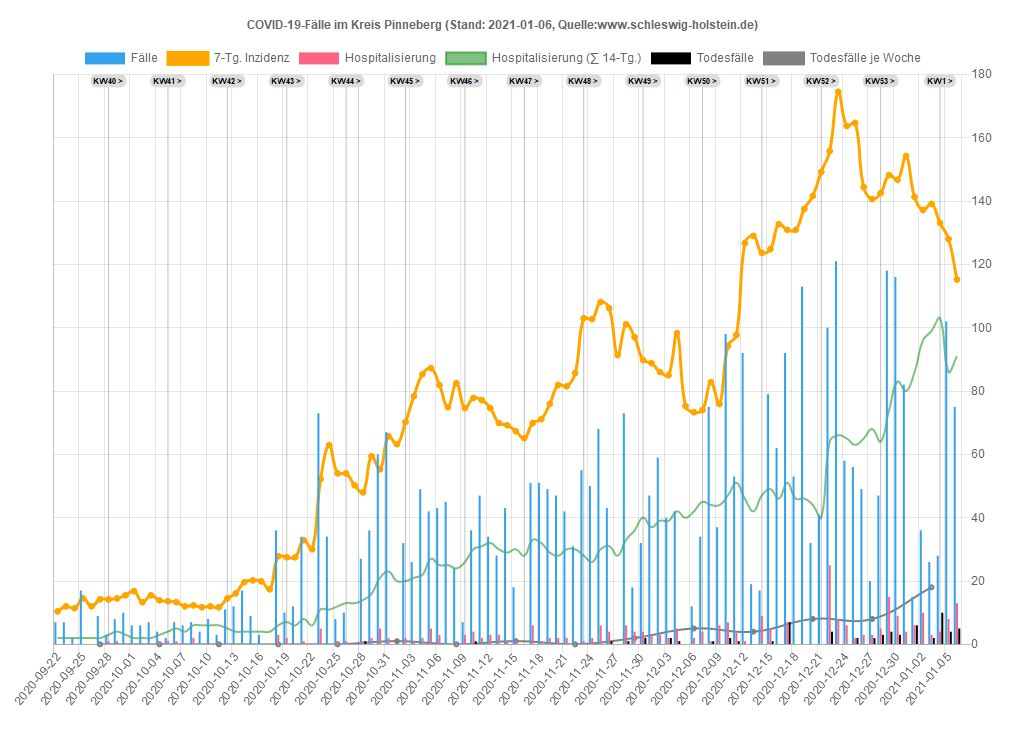
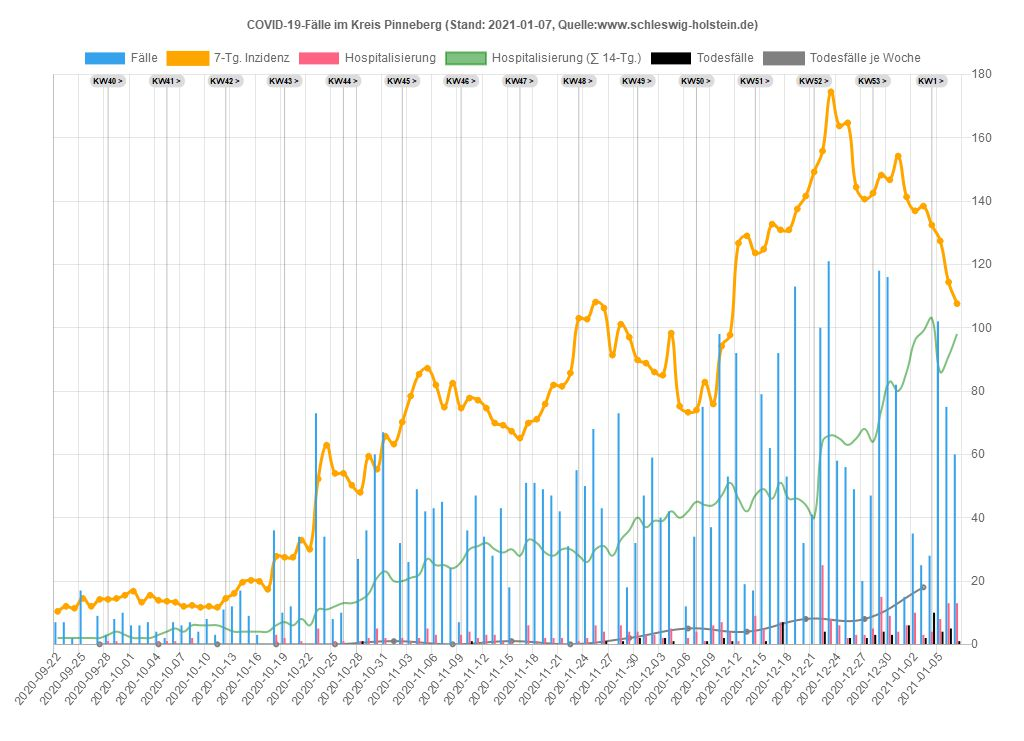
07.01.2021 22:14:42,40

Changed region(s): [[0.0625, 0.0931, 0.9375, 0.9622]]

diff --git a/sh/Data_SH.js b/sh/Data_SH.js
@@ -1,20 +1,20 @@
 var chdata={
-labels: ["2020-09-22","2020-09-23","2020-09-24","2020-09-25","2020-09-26","2020-09-27","2020-09-28","2020-09-29","2020-09-30","2020-10-01","2020-10-02","2020-10-03","2020-10-04","2020-10-05","2020-10-06","2020-10-07","2020-10-08","2020-10-09","2020-10-10","2020-10-11","2020-10-12","2020-10-13","2020-10-14","2020-10-15","2020-10-16","2020-10-17","2020-10-18","2020-10-19","2020-10-20","2020-10-21","2020-10-22","2020-10-23","2020-10-24","2020-10-25","2020-10-26","2020-10-27","2020-10-28","2020-10-29","2020-10-30","2020-10-31","2020-11-01","2020-11-02","2020-11-03","2020-11-04","2020-11-05","2020-11-06","2020-11-07","2020-11-08","2020-11-09","2020-11-10","2020-11-11","2020-11-12","2020-11-13","2020-11-14","2020-11-15","2020-11-16","2020-11-17","2020-11-18","2020-11-19","2020-11-20","2020-11-21","2020-11-22","2020-11-23","2020-11-24","2020-11-25","2020-11-26","2020-11-27","2020-11-28","2020-11-29","2020-11-30","2020-12-01","2020-12-02","2020-12-03","2020-12-04","2020-12-05","2020-12-06","2020-12-07","2020-12-08","2020-12-09","2020-12-10","2020-12-11","2020-12-12","2020-12-13","2020-12-14","2020-12-15","2020-12-16","2020-12-17","2020-12-18","2020-12-19","2020-12-20","2020-12-21","2020-12-22","2020-12-23","2020-12-24","2020-12-25","2020-12-26","2020-12-27","2020-12-28","2020-12-29","2020-12-30","2020-12-31","2021-01-01","2021-01-02","2021-01-03","2021-01-04","2021-01-05","2021-01-06"],
+labels: ["2020-09-22","2020-09-23","2020-09-24","2020-09-25","2020-09-26","2020-09-27","2020-09-28","2020-09-29","2020-09-30","2020-10-01","2020-10-02","2020-10-03","2020-10-04","2020-10-05","2020-10-06","2020-10-07","2020-10-08","2020-10-09","2020-10-10","2020-10-11","2020-10-12","2020-10-13","2020-10-14","2020-10-15","2020-10-16","2020-10-17","2020-10-18","2020-10-19","2020-10-20","2020-10-21","2020-10-22","2020-10-23","2020-10-24","2020-10-25","2020-10-26","2020-10-27","2020-10-28","2020-10-29","2020-10-30","2020-10-31","2020-11-01","2020-11-02","2020-11-03","2020-11-04","2020-11-05","2020-11-06","2020-11-07","2020-11-08","2020-11-09","2020-11-10","2020-11-11","2020-11-12","2020-11-13","2020-11-14","2020-11-15","2020-11-16","2020-11-17","2020-11-18","2020-11-19","2020-11-20","2020-11-21","2020-11-22","2020-11-23","2020-11-24","2020-11-25","2020-11-26","2020-11-27","2020-11-28","2020-11-29","2020-11-30","2020-12-01","2020-12-02","2020-12-03","2020-12-04","2020-12-05","2020-12-06","2020-12-07","2020-12-08","2020-12-09","2020-12-10","2020-12-11","2020-12-12","2020-12-13","2020-12-14","2020-12-15","2020-12-16","2020-12-17","2020-12-18","2020-12-19","2020-12-20","2020-12-21","2020-12-22","2020-12-23","2020-12-24","2020-12-25","2020-12-26","2020-12-27","2020-12-28","2020-12-29","2020-12-30","2020-12-31","2021-01-01","2021-01-02","2021-01-03","2021-01-04","2021-01-05","2021-01-06","2021-01-07"],
 datasets: [
 {label: 'Fälle',
 type: 'bar',
 backgroundColor: window.chartColors.blue,
-data: [38,42,63,53,15,15,38,48,49,27,50,16,24,39,54,45,79,54,26,25,65,65,65,55,90,26,88,163,111,160,136,236,142,115,164,164,280,215,313,265,161,142,236,262,220,274,233,177,215,252,247,192,296,158,161,100,294,208,264,250,153,121,145,251,256,225,180,219,71,81,244,240,245,318,234,122,179,356,340,443,429,444,144,210,506,522,489,553,440,193,280,589,673,366,177,201,188,268,576,466,357,135,266,206,264,541,527]},
+data: [38,42,63,53,15,15,38,48,49,27,50,16,24,39,54,45,79,54,26,25,65,65,65,55,90,26,88,163,111,160,136,236,142,115,164,164,280,215,313,265,161,142,236,262,220,274,233,177,215,252,247,192,296,158,161,100,294,208,264,250,153,121,145,251,256,225,180,219,71,81,244,240,245,318,234,122,179,356,340,443,429,444,144,210,506,522,489,553,440,193,280,589,673,366,177,201,188,268,576,466,357,135,263,203,264,541,534,476]},
 {label: '7-Tg. Inzidenz',
 type: 'line',
 fill: false,
 pointBackgroundColor: 'orange',
 borderColor: 'orange',
-data: [7.2,7.9,8.7,9.4,9.3,9.2,9.1,9.4,9.7,8.4,8.3,8.4,8.7,8.7,8.9,8.8,10.6,10.7,11.1,11.1,12.0,12.4,13.1,12.2,13.5,13.5,15.6,19.0,20.6,23.9,26.7,31.7,35.7,36.6,36.6,38.5,42.6,45.3,48.0,52.2,53.8,53.0,55.5,54.9,55.1,53.7,52.6,53.2,55.7,56.2,55.7,54.8,55.5,52.9,52.4,48.4,49.9,48.5,51.0,49.4,49.2,47.9,49.4,47.9,49.6,48.2,45.8,48.1,46.4,44.2,43.9,43.4,44.1,48.8,49.3,51.1,54.5,58.3,61.8,68.6,72.4,79.7,80.4,81.5,86.6,92.9,94.5,98.8,98.6,100.3,102.7,105.6,110.8,106.6,93.6,85.4,85.2,84.8,84.3,77.2,76.9,75.5,77.7,78.3,78.2,77.0,79.1]},
+data: [7.2,7.9,8.7,9.4,9.3,9.2,9.1,9.4,9.7,8.4,8.3,8.4,8.7,8.7,8.9,8.8,10.6,10.7,11.1,11.1,12.0,12.4,13.1,12.2,13.5,13.5,15.6,19.0,20.6,23.9,26.7,31.7,35.7,36.6,36.6,38.5,42.6,45.3,48.0,52.2,53.8,53.0,55.5,54.9,55.1,53.7,52.6,53.2,55.7,56.2,55.7,54.8,55.5,52.9,52.4,48.4,49.9,48.5,51.0,49.4,49.2,47.9,49.4,47.9,49.6,48.2,45.8,48.1,46.4,44.2,43.9,43.4,44.1,48.8,49.3,51.1,54.5,58.3,61.8,68.6,72.4,79.7,80.4,81.5,86.6,92.9,94.5,98.8,98.6,100.3,102.7,105.6,110.8,106.6,93.6,85.4,85.2,84.8,84.3,77.2,76.9,75.5,77.6,78.1,78.0,76.8,79.1,83.2]},
 {label: 'Hospitalisierung',
 type: 'bar',
 backgroundColor: window.chartColors.red,
-data: [1,2,7,1,0,0,2,1,3,1,1,0,4,3,1,1,4,2,0,3,5,1,1,2,4,0,9,10,8,9,12,7,5,6,7,7,11,10,11,6,3,9,19,20,15,15,5,7,13,15,21,13,17,8,17,13,23,10,15,9,7,7,13,16,26,19,12,14,15,10,12,8,10,14,3,5,24,13,26,20,14,12,6,26,27,16,20,18,8,13,13,43,35,23,17,21,26,25,46,33,33,20,34,32,51,58,35]},
+data: [1,2,7,1,0,0,2,1,3,1,1,0,4,3,1,1,4,2,0,3,5,1,1,2,4,0,9,10,8,9,12,7,5,6,7,7,11,10,11,6,3,9,19,20,15,15,5,7,13,15,21,13,17,8,17,13,23,10,15,9,7,7,13,16,26,19,12,14,15,10,12,8,10,14,3,5,24,13,26,20,14,12,6,26,27,16,20,18,8,13,13,43,35,23,17,21,26,25,46,33,33,20,34,32,51,58,35,46]},
 {label: 'Hosp. (∑ 14-Tg.)',
 type: 'line',
 fill: false,
@@ -22,17 +22,17 @@ hidden: true,
 borderColor: 'rgba(0,255,0,0.5)',
 borderWidth: 1.5,
 pointRadius: 0,
-data: [12,12,20,22,22,22,22,23,23,21,22,21,24,26,26,25,22,23,23,26,29,29,27,28,31,31,36,43,50,58,66,71,76,79,81,87,97,105,112,118,112,111,122,133,136,144,144,145,151,159,169,172,178,180,194,198,202,192,192,186,188,188,188,189,194,200,195,201,199,196,185,183,178,183,179,177,188,185,185,186,188,186,177,193,208,216,226,230,235,243,232,262,271,274,277,286,306,305,324,341,354,356,382,401,439,454,454]},
+data: [12,12,20,22,22,22,22,23,23,21,22,21,24,26,26,25,22,23,23,26,29,29,27,28,31,31,36,43,50,58,66,71,76,79,81,87,97,105,112,118,112,111,122,133,136,144,144,145,151,159,169,172,178,180,194,198,202,192,192,186,188,188,188,189,194,200,195,201,199,196,185,183,178,183,179,177,188,185,185,186,188,186,177,193,208,216,226,230,235,243,232,262,271,274,277,286,306,305,324,341,354,356,382,401,439,454,454,477]},
 {label: 'Aktuell im Krankenhaus',
 type: 'line',
 fill: false,
 pointBackgroundColor: 'green',
 borderColor: 'green',
-data: [6,6,6,6,6,6,6,11,11,11,11,14,14,15,15,14,14,14,13,13,18,18,18,21,24,24,24,24,31,31,31,31,51,51,58,58,58,58,58,58,58,94,110,114,119,118,124,120,126,116,113,119,112,116,116,148,145,151,141,141,141,141,155,142,122,113,118,118,118,124,114,110,109,114,114,114,131,122,128,132,133,133,133,177,181,194,201,212,236,250,275,271,267,262,262,262,262,309,318,322,346,346,376,376,390,412,376]},
+data: [6,6,6,6,6,6,6,11,11,11,11,14,14,15,15,14,14,14,13,13,18,18,18,21,24,24,24,24,31,31,31,31,51,51,58,58,58,58,58,58,58,94,110,114,119,118,124,120,126,116,113,119,112,116,116,148,145,151,141,141,141,141,155,142,122,113,118,118,118,124,114,110,109,114,114,114,131,122,128,132,133,133,133,177,181,194,201,212,236,250,275,271,267,262,262,262,262,309,318,322,346,346,376,376,390,412,376,379]},
 {label: 'Todesfälle',
 type: 'bar',
 backgroundColor: 'black',
-data: [0,0,0,0,0,0,0,1,0,0,0,0,0,0,0,0,0,0,0,0,0,1,0,0,0,0,0,0,0,0,1,0,0,3,0,0,3,4,1,0,2,6,7,2,2,6,0,1,4,3,5,0,5,1,3,5,0,2,2,2,1,0,3,4,1,3,3,1,4,2,3,1,4,1,0,1,4,2,5,7,7,1,2,2,6,7,11,3,2,0,9,15,4,3,4,7,10,18,17,14,2,9,7,3,29,22,17]},
+data: [0,0,0,0,0,0,0,1,0,0,0,0,0,0,0,0,0,0,0,0,0,1,0,0,0,0,0,0,0,0,1,0,0,3,0,0,3,4,1,0,2,6,7,2,2,6,0,1,4,3,5,0,5,1,3,5,0,2,2,2,1,0,3,4,1,3,3,1,4,2,3,1,4,1,0,1,4,2,5,7,7,1,2,2,6,7,11,3,2,0,9,15,4,3,4,7,10,18,17,14,2,9,7,3,29,22,17,6]},
 {label: 'Todesfälle je Woche',
 type: 'line',
 fill: false,
@@ -41,6 +41,6 @@ borderColor: 'rgba(128,128,128,1)',
 borderWidth: 2,
 pointRadius: 2,
 yAxisID: 'first-y-axis',
-data: [,,,,,0,,,,,,,1,,,,,,,0,,,,,,,1,,,,,,,4,,,,,,,10,,,,,,,24,,,,,,,21,,,,,,,12,,,,,,,19,,,,,,,12,,,,,,,28,,,,,,,31,,,,,,,52,,,,,,,70,,,]},
+data: [,,,,,0,,,,,,,1,,,,,,,0,,,,,,,1,,,,,,,4,,,,,,,10,,,,,,,24,,,,,,,21,,,,,,,12,,,,,,,19,,,,,,,12,,,,,,,28,,,,,,,31,,,,,,,52,,,,,,,70,,,,]},
 ]};
 

diff --git a/sh/Data_SH_Alter.js b/sh/Data_SH_Alter.js
@@ -117,7 +117,8 @@ var chdata={
 				{x: '2021-01-03', y: 'Alle', v: 76.4522571, casesum: 2220},{x: '2021-01-03', y: '00-09', v: 26.0982697, casesum: 67},{x: '2021-01-03', y: '10-19', v: 51.4479705, casesum: 142},{x: '2021-01-03', y: '20-29', v: 106.887693, casesum: 342},{x: '2021-01-03', y: '30-39', v: 87.4768291, casesum: 294},{x: '2021-01-03', y: '40-49', v: 76.8853217, casesum: 271},{x: '2021-01-03', y: '50-59', v: 70.0442672, casesum: 347},{x: '2021-01-03', y: '60-69', v: 58.3170577, casesum: 212},{x: '2021-01-03', y: '70-79', v: 63.8662391, casesum: 189},{x: '2021-01-03', y: '80-89', v: 137.551582, casesum: 246},{x: '2021-01-03', y: '90+', v: 381.732371, casesum: 110},
 				{x: '2021-01-04', y: 'Alle', v: 75.2469287, casesum: 2185},{x: '2021-01-04', y: '00-09', v: 23.7611112, casesum: 61},{x: '2021-01-04', y: '10-19', v: 53.6218284, casesum: 148},{x: '2021-01-04', y: '20-29', v: 101.262025, casesum: 324},{x: '2021-01-04', y: '30-39', v: 87.1792888, casesum: 293},{x: '2021-01-04', y: '40-49', v: 77.1690314, casesum: 272},{x: '2021-01-04', y: '50-59', v: 68.6312704, casesum: 340},{x: '2021-01-04', y: '60-69', v: 59.9675405, casesum: 218},{x: '2021-01-04', y: '70-79', v: 67.2454052, casesum: 199},{x: '2021-01-04', y: '80-89', v: 129.723443, casesum: 232},{x: '2021-01-04', y: '90+', v: 340.08884, casesum: 98},
 				{x: '2021-01-05', y: 'Alle', v: 76.6244469, casesum: 2225},{x: '2021-01-05', y: '00-09', v: 23.7611112, casesum: 61},{x: '2021-01-05', y: '10-19', v: 52.8972091, casesum: 146},{x: '2021-01-05', y: '20-29', v: 108.137841, casesum: 346},{x: '2021-01-05', y: '30-39', v: 93.1300935, casesum: 313},{x: '2021-01-05', y: '40-49', v: 83.6943539, casesum: 295},{x: '2021-01-05', y: '50-59', v: 76.7055375, casesum: 380},{x: '2021-01-05', y: '60-69', v: 55.2911727, casesum: 201},{x: '2021-01-05', y: '70-79', v: 62.8524893, casesum: 186},{x: '2021-01-05', y: '80-89', v: 118.540388, casesum: 212},{x: '2021-01-05', y: '90+', v: 294.975014, casesum: 85},
-				{x: '2021-01-06', y: 'Alle', v: 76.7277607, casesum: 2228},{x: '2021-01-06', y: '00-09', v: 23.7611112, casesum: 61},{x: '2021-01-06', y: '10-19', v: 54.3464477, casesum: 150},{x: '2021-01-06', y: '20-29', v: 114.388584, casesum: 366},{x: '2021-01-06', y: '30-39', v: 93.4276338, casesum: 314},{x: '2021-01-06', y: '40-49', v: 80.8572572, casesum: 285},{x: '2021-01-06', y: '50-59', v: 73.879544, casesum: 366},{x: '2021-01-06', y: '60-69', v: 53.6406899, casesum: 195},{x: '2021-01-06', y: '70-79', v: 65.2179055, casesum: 193},{x: '2021-01-06', y: '80-89', v: 121.336151, casesum: 217},{x: '2021-01-06', y: '90+', v: 281.093837, casesum: 81}
+				{x: '2021-01-06', y: 'Alle', v: 76.7277607, casesum: 2228},{x: '2021-01-06', y: '00-09', v: 23.7611112, casesum: 61},{x: '2021-01-06', y: '10-19', v: 54.3464477, casesum: 150},{x: '2021-01-06', y: '20-29', v: 114.388584, casesum: 366},{x: '2021-01-06', y: '30-39', v: 93.4276338, casesum: 314},{x: '2021-01-06', y: '40-49', v: 80.8572572, casesum: 285},{x: '2021-01-06', y: '50-59', v: 73.879544, casesum: 366},{x: '2021-01-06', y: '60-69', v: 53.6406899, casesum: 195},{x: '2021-01-06', y: '70-79', v: 65.2179055, casesum: 193},{x: '2021-01-06', y: '80-89', v: 121.336151, casesum: 217},{x: '2021-01-06', y: '90+', v: 281.093837, casesum: 81},
+				{x: '2021-01-07', y: 'Alle', v: 80.963629, casesum: 2351},{x: '2021-01-07', y: '00-09', v: 23.7611112, casesum: 61},{x: '2021-01-07', y: '10-19', v: 62.3172601, casesum: 172},{x: '2021-01-07', y: '20-29', v: 125.952457, casesum: 403},{x: '2021-01-07', y: '30-39', v: 95.8079556, casesum: 322},{x: '2021-01-07', y: '40-49', v: 85.9640313, casesum: 303},{x: '2021-01-07', y: '50-59', v: 76.5036809, casesum: 379},{x: '2021-01-07', y: '60-69', v: 54.7410117, casesum: 199},{x: '2021-01-07', y: '70-79', v: 62.8524893, casesum: 186},{x: '2021-01-07', y: '80-89', v: 131.960054, casesum: 236},{x: '2021-01-07', y: '90+', v: 312.326485, casesum: 90}
 			],
 			backgroundColor: function(context) {
 				return inzColor(context.dataset.data[context.dataIndex].v)
@@ -125,7 +126,7 @@ var chdata={
 			width: function(context) {
 				const a = context.chart.chartArea
 				if (!a) return 0
-				return (a.right - a.left) / 114.5
+				return (a.right - a.left) / 115.5
 			},
 			height: function(context) {
 				const a = context.chart.chartArea
@@ -137,7 +138,7 @@ var chdata={
 	options: {
 		legend: { display: false },
 		scales: {
-			xAxes: [{type: 'category', labels: ["2020-09-15","2020-09-16","2020-09-17","2020-09-18","2020-09-19","2020-09-20","2020-09-21","2020-09-22","2020-09-23","2020-09-24","2020-09-25","2020-09-26","2020-09-27","2020-09-28","2020-09-29","2020-09-30","2020-10-01","2020-10-02","2020-10-03","2020-10-04","2020-10-05","2020-10-06","2020-10-07","2020-10-08","2020-10-09","2020-10-10","2020-10-11","2020-10-12","2020-10-13","2020-10-14","2020-10-15","2020-10-16","2020-10-17","2020-10-18","2020-10-19","2020-10-20","2020-10-21","2020-10-22","2020-10-23","2020-10-24","2020-10-25","2020-10-26","2020-10-27","2020-10-28","2020-10-29","2020-10-30","2020-10-31","2020-11-01","2020-11-02","2020-11-03","2020-11-04","2020-11-05","2020-11-06","2020-11-07","2020-11-08","2020-11-09","2020-11-10","2020-11-11","2020-11-12","2020-11-13","2020-11-14","2020-11-15","2020-11-16","2020-11-17","2020-11-18","2020-11-19","2020-11-20","2020-11-21","2020-11-22","2020-11-23","2020-11-24","2020-11-25","2020-11-26","2020-11-27","2020-11-28","2020-11-29","2020-11-30","2020-12-01","2020-12-02","2020-12-03","2020-12-04","2020-12-05","2020-12-06","2020-12-07","2020-12-08","2020-12-09","2020-12-10","2020-12-11","2020-12-12","2020-12-13","2020-12-14","2020-12-15","2020-12-16","2020-12-17","2020-12-18","2020-12-19","2020-12-20","2020-12-21","2020-12-22","2020-12-23","2020-12-24","2020-12-25","2020-12-26","2020-12-27","2020-12-28","2020-12-29","2020-12-30","2020-12-31","2021-01-01","2021-01-02","2021-01-03","2021-01-04","2021-01-05","2021-01-06",], ticks: {display: true},gridlines:{display:false}}],
+			xAxes: [{type: 'category', labels: ["2020-09-15","2020-09-16","2020-09-17","2020-09-18","2020-09-19","2020-09-20","2020-09-21","2020-09-22","2020-09-23","2020-09-24","2020-09-25","2020-09-26","2020-09-27","2020-09-28","2020-09-29","2020-09-30","2020-10-01","2020-10-02","2020-10-03","2020-10-04","2020-10-05","2020-10-06","2020-10-07","2020-10-08","2020-10-09","2020-10-10","2020-10-11","2020-10-12","2020-10-13","2020-10-14","2020-10-15","2020-10-16","2020-10-17","2020-10-18","2020-10-19","2020-10-20","2020-10-21","2020-10-22","2020-10-23","2020-10-24","2020-10-25","2020-10-26","2020-10-27","2020-10-28","2020-10-29","2020-10-30","2020-10-31","2020-11-01","2020-11-02","2020-11-03","2020-11-04","2020-11-05","2020-11-06","2020-11-07","2020-11-08","2020-11-09","2020-11-10","2020-11-11","2020-11-12","2020-11-13","2020-11-14","2020-11-15","2020-11-16","2020-11-17","2020-11-18","2020-11-19","2020-11-20","2020-11-21","2020-11-22","2020-11-23","2020-11-24","2020-11-25","2020-11-26","2020-11-27","2020-11-28","2020-11-29","2020-11-30","2020-12-01","2020-12-02","2020-12-03","2020-12-04","2020-12-05","2020-12-06","2020-12-07","2020-12-08","2020-12-09","2020-12-10","2020-12-11","2020-12-12","2020-12-13","2020-12-14","2020-12-15","2020-12-16","2020-12-17","2020-12-18","2020-12-19","2020-12-20","2020-12-21","2020-12-22","2020-12-23","2020-12-24","2020-12-25","2020-12-26","2020-12-27","2020-12-28","2020-12-29","2020-12-30","2020-12-31","2021-01-01","2021-01-02","2021-01-03","2021-01-04","2021-01-05","2021-01-06","2021-01-07",], ticks: {display: true},gridlines:{display:false}}],
 			yAxes: [{type: 'category', labels: ["Alle","00-09","10-19","20-29","30-39","40-49","50-59","60-69","70-79","80-89","90+"], offset:true, ticks: {display: true},gridlines:{display:false}}],
 		},
 	}

diff --git a/sh/Kreis_PI.js b/sh/Kreis_PI.js
@@ -1,23 +1,23 @@
 var chdata={
-labels: ["2020-09-22","2020-09-23","2020-09-24","2020-09-25","2020-09-26","2020-09-27","2020-09-28","2020-09-29","2020-09-30","2020-10-01","2020-10-02","2020-10-03","2020-10-04","2020-10-05","2020-10-06","2020-10-07","2020-10-08","2020-10-09","2020-10-10","2020-10-11","2020-10-12","2020-10-13","2020-10-14","2020-10-15","2020-10-16","2020-10-17","2020-10-18","2020-10-19","2020-10-20","2020-10-21","2020-10-22","2020-10-23","2020-10-24","2020-10-25","2020-10-26","2020-10-27","2020-10-28","2020-10-29","2020-10-30","2020-10-31","2020-11-01","2020-11-02","2020-11-03","2020-11-04","2020-11-05","2020-11-06","2020-11-07","2020-11-08","2020-11-09","2020-11-10","2020-11-11","2020-11-12","2020-11-13","2020-11-14","2020-11-15","2020-11-16","2020-11-17","2020-11-18","2020-11-19","2020-11-20","2020-11-21","2020-11-22","2020-11-23","2020-11-24","2020-11-25","2020-11-26","2020-11-27","2020-11-28","2020-11-29","2020-11-30","2020-12-01","2020-12-02","2020-12-03","2020-12-04","2020-12-05","2020-12-06","2020-12-07","2020-12-08","2020-12-09","2020-12-10","2020-12-11","2020-12-12","2020-12-13","2020-12-14","2020-12-15","2020-12-16","2020-12-17","2020-12-18","2020-12-19","2020-12-20","2020-12-21","2020-12-22","2020-12-23","2020-12-24","2020-12-25","2020-12-26","2020-12-27","2020-12-28","2020-12-29","2020-12-30","2020-12-31","2021-01-01","2021-01-02","2021-01-03","2021-01-04","2021-01-05","2021-01-06"],
+labels: ["2020-09-22","2020-09-23","2020-09-24","2020-09-25","2020-09-26","2020-09-27","2020-09-28","2020-09-29","2020-09-30","2020-10-01","2020-10-02","2020-10-03","2020-10-04","2020-10-05","2020-10-06","2020-10-07","2020-10-08","2020-10-09","2020-10-10","2020-10-11","2020-10-12","2020-10-13","2020-10-14","2020-10-15","2020-10-16","2020-10-17","2020-10-18","2020-10-19","2020-10-20","2020-10-21","2020-10-22","2020-10-23","2020-10-24","2020-10-25","2020-10-26","2020-10-27","2020-10-28","2020-10-29","2020-10-30","2020-10-31","2020-11-01","2020-11-02","2020-11-03","2020-11-04","2020-11-05","2020-11-06","2020-11-07","2020-11-08","2020-11-09","2020-11-10","2020-11-11","2020-11-12","2020-11-13","2020-11-14","2020-11-15","2020-11-16","2020-11-17","2020-11-18","2020-11-19","2020-11-20","2020-11-21","2020-11-22","2020-11-23","2020-11-24","2020-11-25","2020-11-26","2020-11-27","2020-11-28","2020-11-29","2020-11-30","2020-12-01","2020-12-02","2020-12-03","2020-12-04","2020-12-05","2020-12-06","2020-12-07","2020-12-08","2020-12-09","2020-12-10","2020-12-11","2020-12-12","2020-12-13","2020-12-14","2020-12-15","2020-12-16","2020-12-17","2020-12-18","2020-12-19","2020-12-20","2020-12-21","2020-12-22","2020-12-23","2020-12-24","2020-12-25","2020-12-26","2020-12-27","2020-12-28","2020-12-29","2020-12-30","2020-12-31","2021-01-01","2021-01-02","2021-01-03","2021-01-04","2021-01-05","2021-01-06","2021-01-07"],
 datasets: [
 {label: 'Fälle',
 type: 'bar',
 backgroundColor: window.chartColors.blue,
 yAxisID: 'first-y-axis',
-data: [7,7,2,17,0,9,3,8,10,6,6,7,4,2,7,6,7,4,8,3,11,12,17,9,3,0,36,10,12,34,0,73,34,8,10,0,27,36,60,67,0,32,26,49,42,43,45,24,7,36,47,34,28,43,18,0,51,51,49,47,42,31,55,50,68,43,0,73,18,32,47,59,40,42,0,12,34,75,37,98,53,92,19,17,79,62,92,53,113,32,41,100,121,58,56,49,20,47,118,116,82,15,36,26,28,102,75]},
+data: [7,7,2,17,0,9,3,8,10,6,6,7,4,2,7,6,7,4,8,3,11,12,17,9,3,0,36,10,12,34,0,73,34,8,10,0,27,36,60,67,0,32,26,49,42,43,45,24,7,36,47,34,28,43,18,0,51,51,49,47,42,31,55,50,68,43,0,73,18,32,47,59,40,42,0,12,34,75,37,98,53,92,19,17,79,62,92,53,113,32,41,100,121,58,56,49,20,47,118,116,82,15,35,25,28,102,75,60]},
 {label: '7-Tg. Inzidenz',
 type: 'line',
 fill: false,
 pointBackgroundColor: 'orange',
 borderColor: 'orange',
 yAxisID: 'first-y-axis',
-data: [10.4,12.0,11.4,14.5,12.0104175,14.2,14.2,14.5,15.5,16.8,13.3,15.5,13.9,13.6,13.3,12.0,12.3,11.7,12.0,11.7,14.5,16.1,19.6,20.2,19.9,17.383499,27.8,27.5,27.5,32.9,30.0260436,52.2,62.9,54.0,54.0,50.2541151,48.0,59.4,55.3,65.7,63.2127235,70.2,78.4,85.3,87.2,81.9,74.9,82.5,74.6,77.8,77.1,74.6,69.9,69.2,67.3,65.1091052,69.9,71.1,75.9,81.9,81.5,85.7,103.0,102.7,108.1,106.2,91.3423854,101.1,97.0,89.8,88.8,86.0,85.0,98.3,75.2231409,73.3,74.0,82.8,75.9,94.2,97.7,126.7,129.0,123.6,124.8,132.7,130.9,130.9,137.5,141.6,149.2,155.8,174.5,163.7,164.7,144.4,140.6,142.5,148.2,146.7,154.2,141.3,137.2,139.1,133.1,128.0,115.2]},
+data: [10.4,12.0,11.4,14.5,12.0104175,14.2,14.2,14.5,15.5,16.8,13.3,15.5,13.9,13.6,13.3,12.0,12.3,11.7,12.0,11.7,14.5,16.1,19.6,20.2,19.9,17.383499,27.8,27.5,27.5,32.9,30.0260436,52.2,62.9,54.0,54.0,50.2541151,48.0,59.4,55.3,65.7,63.2127235,70.2,78.4,85.3,87.2,81.9,74.9,82.5,74.6,77.8,77.1,74.6,69.9,69.2,67.3,65.1091052,69.9,71.1,75.9,81.9,81.5,85.7,103.0,102.7,108.1,106.2,91.3423854,101.1,97.0,89.8,88.8,86.0,85.0,98.3,75.2231409,73.3,74.0,82.8,75.9,94.2,97.7,126.7,129.0,123.6,124.8,132.7,130.9,130.9,137.5,141.6,149.2,155.8,174.5,163.7,164.7,144.4,140.6,142.5,148.2,146.7,154.2,141.3,136.9,138.4,132.4,127.4,114.4,107.6]},
 {label: 'Hospitalisierung',
 type: 'bar',
 backgroundColor: window.chartColors.red,
 yAxisID: 'first-y-axis',
-data: [0,0,0,0,0,0,1,1,0,0,0,0,1,1,1,-1,2,0,0,0,0,0,0,0,0,0,3,2,0,1,0,5,0,1,1,0,1,2,5,2,0,2,1,2,5,3,0,0,3,4,2,3,3,1,1,0,6,1,2,2,2,0,1,2,6,4,0,6,4,4,3,3,2,5,0,2,4,1,6,7,4,1,0,9,5,0,7,0,0,0,0,25,8,6,2,3,3,5,15,9,4,6,10,3,4,8,13]},
+data: [0,0,0,0,0,0,1,1,0,0,0,0,1,1,1,-1,2,0,0,0,0,0,0,0,0,0,3,2,0,1,0,5,0,1,1,0,1,2,5,2,0,2,1,2,5,3,0,0,3,4,2,3,3,1,1,0,6,1,2,2,2,0,1,2,6,4,0,6,4,4,3,3,2,5,0,2,4,1,6,7,4,1,0,9,5,0,7,0,0,0,0,25,8,6,2,3,3,5,15,9,4,6,10,3,4,8,13,13]},
 {label: 'Hospitalisierung (∑ 14-Tg.)',
 type: 'line',
 pointRadius: 0,
@@ -25,12 +25,12 @@ fill: false,
 borderColor: 'rgba(0,128,0,0.5)',
 borderWidth: 2,
 yAxisID: 'first-y-axis',
-data: [2,2,2,2,2,2,3,4,3,2,2,2,3,4,5,4,6,6,6,6,5,4,4,4,4,4,6,7,6,8,6,11,11,12,13,13,14,16,21,23,20,20,21,22,27,25,25,24,26,30,31,32,30,29,30,28,33,32,29,28,30,30,28,26,30,31,28,33,36,40,37,39,39,42,40,42,45,44,44,47,51,46,42,47,49,46,51,46,46,44,40,64,66,65,63,65,68,64,74,83,80,86,96,99,103,86,91]},
+data: [2,2,2,2,2,2,3,4,3,2,2,2,3,4,5,4,6,6,6,6,5,4,4,4,4,4,6,7,6,8,6,11,11,12,13,13,14,16,21,23,20,20,21,22,27,25,25,24,26,30,31,32,30,29,30,28,33,32,29,28,30,30,28,26,30,31,28,33,36,40,37,39,39,42,40,42,45,44,44,47,51,46,42,47,49,46,51,46,46,44,40,64,66,65,63,65,68,64,74,83,80,86,96,99,103,86,91,98]},
 {label: 'Todesfälle',
 type: 'bar',
 backgroundColor: 'black',
 yAxisID: 'first-y-axis',
-data: [0,0,0,0,0,0,0,0,0,0,0,0,0,0,0,0,0,0,0,0,0,0,0,0,0,0,0,0,0,0,0,0,0,0,0,0,1,0,0,0,0,0,0,0,0,0,0,0,0,1,0,0,0,0,0,0,0,0,0,0,0,0,0,0,0,1,0,1,0,2,0,0,2,1,0,0,0,1,0,2,1,0,0,0,1,0,7,0,0,0,0,4,0,0,2,0,2,3,4,3,0,6,0,2,10,4,5]},
+data: [0,0,0,0,0,0,0,0,0,0,0,0,0,0,0,0,0,0,0,0,0,0,0,0,0,0,0,0,0,0,0,0,0,0,0,0,1,0,0,0,0,0,0,0,0,0,0,0,0,1,0,0,0,0,0,0,0,0,0,0,0,0,0,0,0,1,0,1,0,2,0,0,2,1,0,0,0,1,0,2,1,0,0,0,1,0,7,0,0,0,0,4,0,0,2,0,2,3,4,3,0,6,0,2,10,4,5,1]},
 {label: 'Todesfälle je Woche',
 type: 'line',
 fill: false,
@@ -39,6 +39,6 @@ borderColor: 'rgba(128,128,128,1)',
 borderWidth: 2,
 pointRadius: 2,
 yAxisID: 'first-y-axis',
-data: [,,,,,0,,,,,,,0,,,,,,,0,,,,,,,0,,,,,,,0,,,,,,,1,,,,,,,0,,,,,,,1,,,,,,,0,,,,,,,2,,,,,,,5,,,,,,,4,,,,,,,8,,,,,,,8,,,,,,,18,,,]},
+data: [,,,,,0,,,,,,,0,,,,,,,0,,,,,,,0,,,,,,,0,,,,,,,1,,,,,,,0,,,,,,,1,,,,,,,0,,,,,,,2,,,,,,,5,,,,,,,4,,,,,,,8,,,,,,,8,,,,,,,18,,,,]},
 ]};
 

diff --git a/sh/index_sh_alter.html b/sh/index_sh_alter.html
@@ -5,7 +5,7 @@
 <meta property="og:image" content="index_sh_alter.jpg" />
 <meta property="og:type" content="website" />
 <meta property="og:locale" content="de_DE" />
-<meta property="og:updated_time" content="2021-01-07T20:52:38+01:00" />
+<meta property="og:updated_time" content="2021-01-07T22:14:40+01:00" />
 <title>Altersverteilung der COVID-19-Fälle in Schleswig-Holstein</title>
 <link rel="stylesheet" href="../css/style.css" media="screen" type="text/css">
 <link rel="stylesheet" media="screen" href="Chart.min.css"> 

diff --git a/sh/index_pi_alter.html b/sh/index_pi_alter.html
@@ -5,7 +5,7 @@
 <meta property="og:image" content="index_pi_alter.jpg" />
 <meta property="og:type" content="website" />
 <meta property="og:locale" content="de_DE" />
-<meta property="og:updated_time" content="2021-01-07T20:52:38+01:00" />
+<meta property="og:updated_time" content="2021-01-07T22:14:40+01:00" />
 <title>Altersverteilung der COVID-19-Fälle im Kreis Pinneberg</title>
 <link rel="stylesheet" href="../css/style.css" media="screen" type="text/css">
 <link rel="stylesheet" media="screen" href="Chart.min.css"> 

diff --git a/sh/index.html b/sh/index.html
@@ -5,7 +5,7 @@
 <meta property="og:image" content="index.jpg" />
 <meta property="og:type" content="website" />
 <meta property="og:locale" content="de_DE" />
-<meta property="og:updated_time" content="2021-01-07T20:52:38+01:00" />
+<meta property="og:updated_time" content="2021-01-07T22:14:40+01:00" />
 <title>COVID-19-Fälle im Kreis Pinneberg</title>
 <link rel="stylesheet" href="../css/style.css" media="screen" type="text/css">
 <link rel="stylesheet" media="screen" href="Chart.min.css"> 
